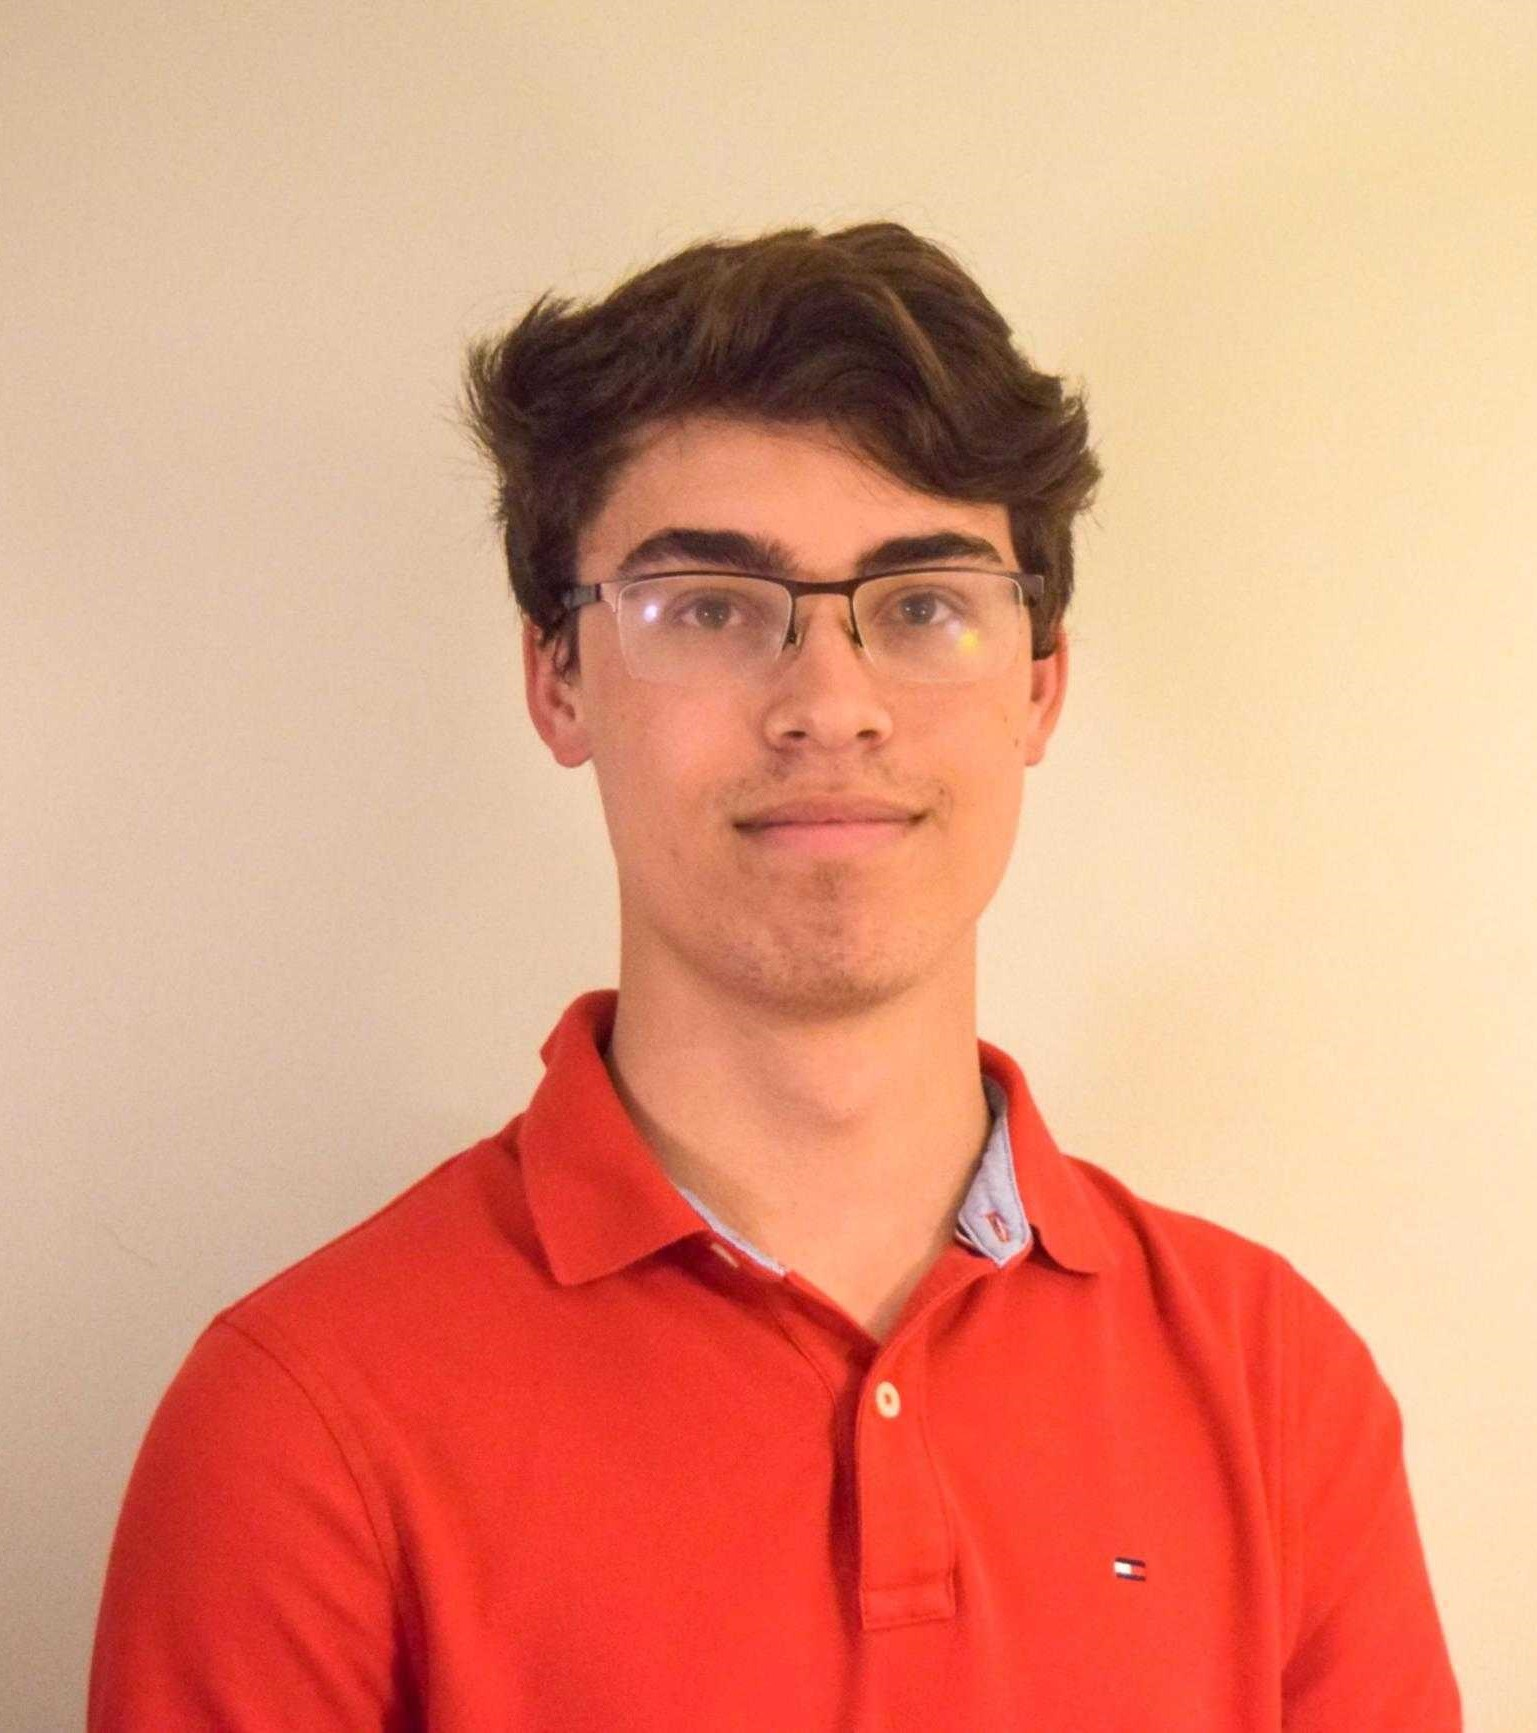
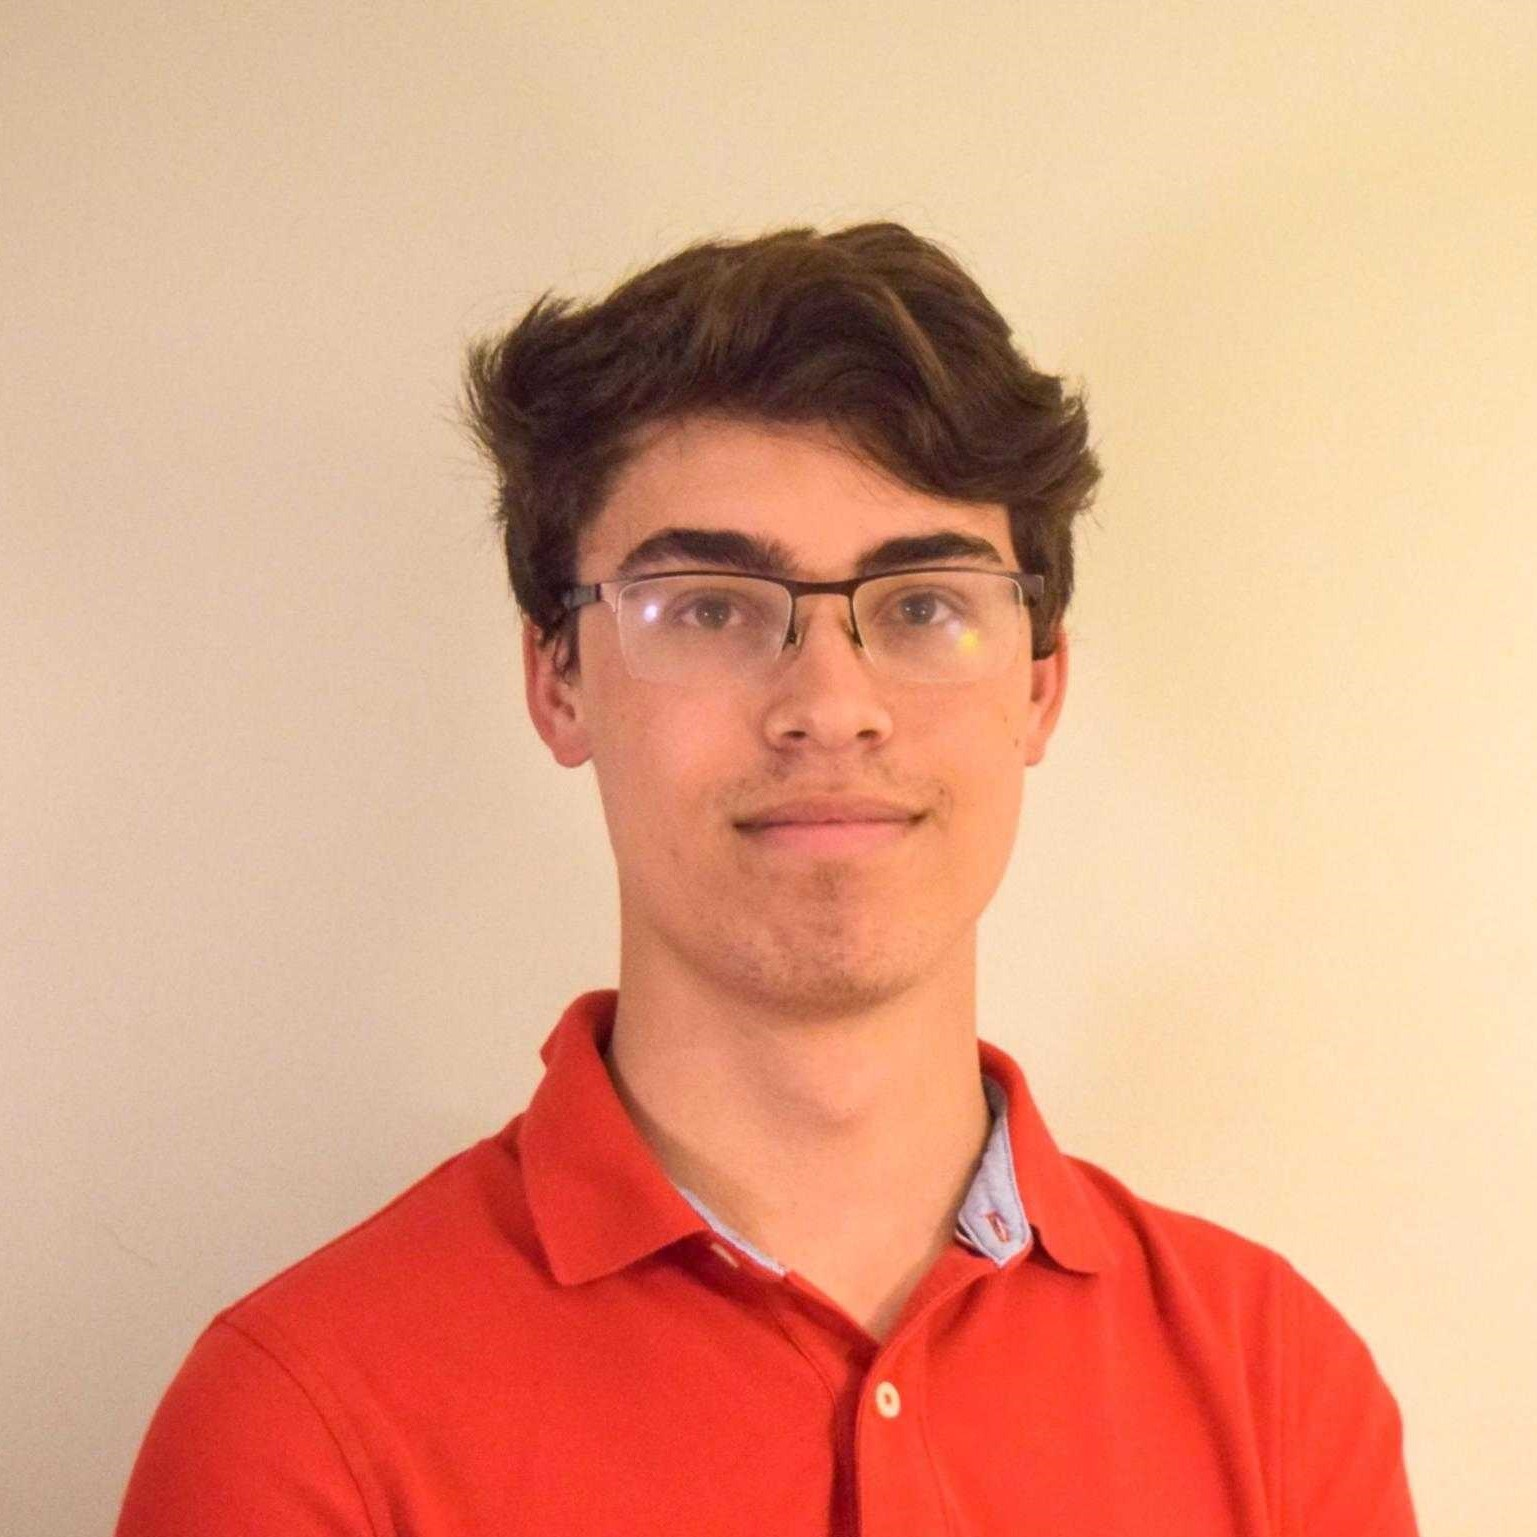
Modified the sizing of the images, added officers
Resized the images to all have the same aspect ratio, as well as added Christian's bio and picture to the website.

Changed region(s): [[0.0, 0.1249, 0.9681, 1.0]]

diff --git a/client/src/Body.js b/client/src/Body.js
@@ -11,6 +11,7 @@ import liam from "./images/liam.jpg"
 import donovan from "./images/donovan.jpg"
 import webdev from "./images/html5&css3.png"
 import shipt from "./images/shipt.png"
+import christian from "./images/christian.jpg"
 
 //Bio for Faculty Advisor
 //Contact us section of footer with president and secretary emails
@@ -110,21 +111,20 @@ export default function Body() {
                     <h2>Large Events Chair</h2>
                     <img class='president officer-img' src={daniel} alt="Large Events Chair"/>
                     <p id="bio">                    
-                            Daniel Tsark is a junior from Chandler, Arizona who is pursuing a degree in cybersecurity. 
-                            Daniel is involved in numerous extra-curricular organizations outside of ACM, 
-                            with some of the most notable being his involvement in the Student Government Association, 
-                            United Greek Council, and Theta Tau.
+                        Daniel Tsark is a junior from Chandler, Arizona who is pursuing a degree in cybersecurity. 
+                        Daniel is involved in numerous extra-curricular organizations outside of ACM, 
+                        with some of the most notable being his involvement in the Student Government Association, 
+                        United Greek Council, and Theta Tau.
                     </p>
                 </div>
                 <div>
                     <h1 class='officer'>Christian Hirschey</h1>
                     <h2>Public Relations Chair</h2>
-                    <img class='president officer-img' src={daniel} alt="Public Relations Chair"/>
+                    <img class='president officer-img' src={christian} alt="Public Relations Chair"/>
                     <p id="bio">                    
-                            Daniel Tsark is a junior from Chandler, Arizona who is pursuing a degree in cybersecurity. 
-                            Daniel is involved in numerous extra-curricular organizations outside of ACM, 
-                            with some of the most notable being his involvement in the Student Government Association, 
-                            United Greek Council, and Theta Tau.
+                        Christian Hirschey is a freshman from Holbrook, New York pursuing a degree in 
+                        Computer Science. Outside of ACM, Christian is a member of Competitive Programming 
+                        Club and Web Development Club, and plays snare drum for the Birmingham-based Alabama Pipes & Drums.
                     </p>
                 </div>
             </div>

diff --git a/client/src/Body.css b/client/src/Body.css
@@ -59,7 +59,6 @@ h2{
 }
 
 .about-pic, .prof-pic, .coding-pic, .social-pic{
-    width: 100%;
     display: block;
     margin: auto;
     border-radius: .5rem;
